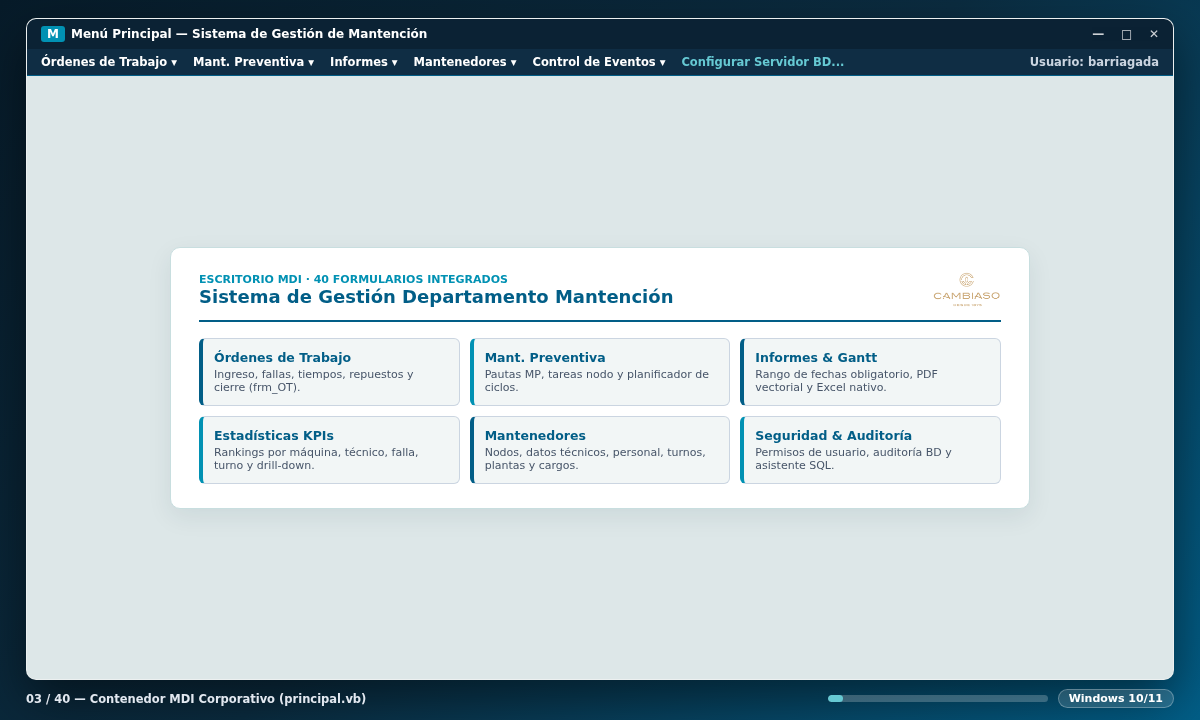
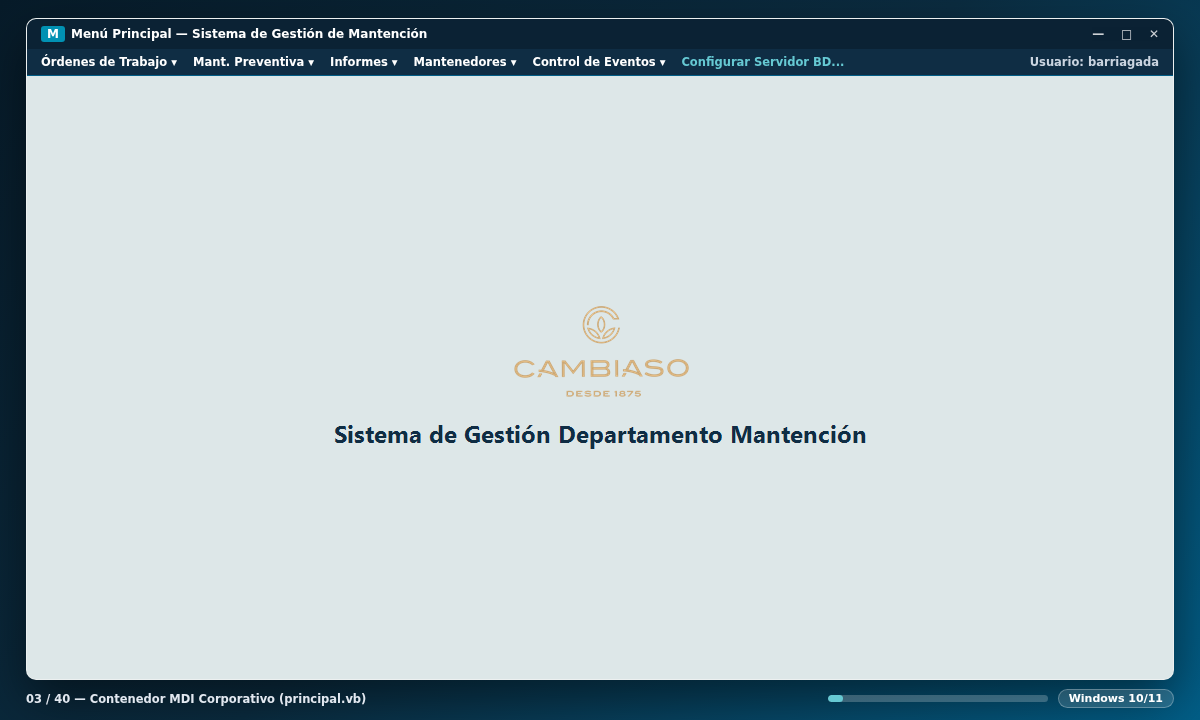
docs(gallery): actualizar captura 03_principal, carrusel de 40 formularios y descripcion del proyecto [skip ci]

Changed region(s): [[0.1233, 0.3361, 0.8633, 0.7028]]

diff --git a/README.md b/README.md
@@ -26,9 +26,9 @@
 
 ## 📌 Descripción del Proyecto
 
-El **Sistema de Gestión Departamento Mantención** es una solución informática de clase industrial (CMMS / ERP de Mantenimiento) diseñada específicamente para la administración, programación, control operativo y análisis estadístico del mantenimiento mecánico y eléctrico en las plantas productivas de **Cambiaso Hnos. S.A.C.**
+El **Sistema de Gestión Departamento Mantención** es una plataforma CMMS / EAM de grado industrial desarrollada sobre **.NET 8 LTS**, diseñada específicamente para la administración, programación cíclica, control operativo, auditoría y análisis estadístico del mantenimiento mecánico y eléctrico en las plantas productivas de **Cambiaso Hnos. S.A.C.**
 
-Permite digitalizar el ciclo de vida completo de las intervenciones técnicas en planta: desde la detección de una falla imprevista o la planificación cíclica de mantenciones preventivas, hasta el registro de repuestos, tiempos de detención, personal técnico asignado y reportabilidad ejecutiva con **filtrado universal por rango de fechas** para la toma de decisiones.
+Digitaliza de extremo a extremo el ciclo de vida de cada intervención técnica a través de **40 formularios unificados** bajo una identidad visual corporativa homogénea (`#025E87`, `#0191B3`, `#66C9D3`, `#0F2D44`, `#DDE7E8`, `#F2F6F6`): desde la detección de fallas imprevistas o la planificación preventiva en Carta Gantt, hasta el control de repuestos, horas de detención, dotación técnica, **filtrado obligatorio por rango de fechas (`Desde` / `Hasta`)** y exportación nativa a Excel (XML SpreadsheetML) y PDF vectorial (`iTextSharp`) sin dependencias de Office ni Crystal Reports en Windows 10/11 y macOS Universal (Apple Silicon ARM64 sin Rosetta 2 + Intel).
 
 ---
 
@@ -46,7 +46,7 @@ Permite digitalizar el ciclo de vida completo de las intervenciones técnicas en
 | Formulario (Impar) | Formulario (Par) |
 | :---: | :---: |
 | **01. `Inicio`** — Splash Corporativo<br/>[<img src="docs/screenshots/01_Inicio.png" width="400" alt="01 Inicio"/>](docs/screenshots/01_Inicio.png) | **02. `Login`** — Inicio de Sesión Limpio<br/>[<img src="docs/screenshots/02_Login.png" width="400" alt="02 Login"/>](docs/screenshots/02_Login.png) |
-| **03. `principal`** — Menú Principal MDI<br/>[<img src="docs/screenshots/03_principal.png" width="400" alt="03 principal"/>](docs/screenshots/03_principal.png) | **04. `FrmConfiguracionServidor`** — Asistente SQL<br/>[<img src="docs/screenshots/04_FrmConfiguracionServidor.png" width="400" alt="04 FrmConfiguracionServidor"/>](docs/screenshots/04_FrmConfiguracionServidor.png) |
+| **03. `principal`** — Escritorio MDI (Logo y Título)<br/>[<img src="docs/screenshots/03_principal.png" width="400" alt="03 principal"/>](docs/screenshots/03_principal.png) | **04. `FrmConfiguracionServidor`** — Asistente SQL<br/>[<img src="docs/screenshots/04_FrmConfiguracionServidor.png" width="400" alt="04 FrmConfiguracionServidor"/>](docs/screenshots/04_FrmConfiguracionServidor.png) |
 | **05. `frm_OT`** — Gestión Órdenes de Trabajo<br/>[<img src="docs/screenshots/05_frm_OT.png" width="400" alt="05 frm_OT"/>](docs/screenshots/05_frm_OT.png) | **06. `FrmDetalleOt`** — Detalle Completo de OT<br/>[<img src="docs/screenshots/06_FrmDetalleOt.png" width="400" alt="06 FrmDetalleOt"/>](docs/screenshots/06_FrmDetalleOt.png) |
 | **07. `FrmMp`** — Gestión Mantención Preventiva<br/>[<img src="docs/screenshots/07_FrmMp.png" width="400" alt="07 FrmMp"/>](docs/screenshots/07_FrmMp.png) | **08. `FrmAdminTareasNodo`** — Tareas por Máquina<br/>[<img src="docs/screenshots/08_FrmAdminTareasNodo.png" width="400" alt="08 FrmAdminTareasNodo"/>](docs/screenshots/08_FrmAdminTareasNodo.png) |
 | **09. `FrmPlanificarCiclos`** — Planificador Masivo<br/>[<img src="docs/screenshots/09_FrmPlanificarCiclos.png" width="400" alt="09 FrmPlanificarCiclos"/>](docs/screenshots/09_FrmPlanificarCiclos.png) | **10. `FrmInfOT`** — Informe Órdenes de Trabajo<br/>[<img src="docs/screenshots/10_FrmInfOT.png" width="400" alt="10 FrmInfOT"/>](docs/screenshots/10_FrmInfOT.png) |
@@ -211,14 +211,14 @@ dotnet add package Sistema.Gestion.Mantencion --version 2026.1.0
 
 ## 🌟 Novedades de la Versión 2026.1 LTS
 
-* **🎨 Identidad Visual Corporativa Unificada (`Segoe UI`):** Paleta corporativa oficial (`#025E87`, `#0191B3`, `#66C9D3`, `#E5EBEB`, `#F2F6F6`, `#0F2D44`), renderizador moderno de menús/barras, ajuste automático a pantalla, selectores de fecha ampliados (`106x23`) y botones corregidos en `Inicio de Sesión`.
-* **🛡 Captura Global y Diagnóstico Claro de Errores:** Todos los errores de red SQL Server, consultas y UI se traducen a explicaciones claras en español, ofrecen abrir **Configurar Servidor BD** en un clic y se guardan en `%LOCALAPPDATA%\SistemaMantencion\logs\errores_yyyyMMdd.log` para depuración.
+* **🎨 Identidad Visual Corporativa Unificada (`Segoe UI`):** Paleta corporativa oficial (`#025E87`, `#0191B3`, `#66C9D3`, `#0F2D44`, `#DDE7E8`, `#F2F6F6`) aplicada globalmente en los 40 formularios, grillas, menús/barras, botones primarios/secundarios/destructivos y escritorio MDI renovado con logotipo institucional y título centrado.
+* **🧩 Iconografía de Botones Normalizada (`16x16`):** Depuración de fotogramas `.ico` sobredimensionados y ajuste automático por código (`NormalizarIconoBoton`) para evitar recortes o superposiciones de iconos sobre textos en formularios y buscadores.
+* **🛡 Configuración SQL Bajo Demanda y Diagnóstico Claro de Errores:** Pantalla de **Inicio de Sesión** limpia; ante fallos SQL, de red/VPN o permisos, explica la causa en español, ofrece abrir **Configurar Servidor BD** en un clic (también disponible desde **Mantenedores > Configurar Servidor BD...**) y registra la bitácora en `%LOCALAPPDATA%\SistemaMantencion\logs\errores_yyyyMMdd.log`.
 * **📅 Filtrado Obligatorio por Rango de Fechas en Todos los Informes:** Selección `Desde` / `Hasta` siempre visible, habilitada y validada en OT, Mantención Preventiva, Ciclos por Máquina, Carta Gantt, Resúmenes Estadísticos y Auditoría.
-* **📑 Exportación Excel y PDF Sin Dependencias:** Motor nativo SpreadsheetML (`.xls`) y motor vectorial iTextSharp (`.pdf`) integrados en todos los informes cuando Microsoft Excel no está presente.
+* **📑 Exportación Excel y PDF Sin Dependencias:** Motor nativo SpreadsheetML (`.xls`) y motor vectorial `iTextSharp` (`.pdf`) integrados en todos los informes cuando Microsoft Excel no está presente.
 * **⚡ Transiciones MDI y Consultas Optimizadas:** `DoubleBuffered`, `SuspendLayout`/`ResumeLayout`, caché de catálogos, precalentamiento de pool SQL y búsquedas `O(1)` en generación de Carta Gantt.
-* **📦 Instaladores Ultra-Compactos:** Depuración automática de ensamblados WPF no utilizados, símbolos de depuración, duplicados de plantillas y satélites de idiomas extranjeros; compresión LZMA2 (`Windows`) y ULMO LZMA (`macOS`).
-* **🍏 Soporte Nativo Universal para macOS (Sin Rosetta 2):** Binario Mach-O Universal (`arm64` + `x86_64`) con entorno UTF-8 forzado desde el launcher nativo, ejecución 100% nativa en Apple Silicon (M1–M4), eliminando avisos de apps Intel en macOS 27 Golden Gate y garantizando compatibilidad futura con macOS 28+.
-* **🛡 Cero Advertencias y Cero Errores:** Código fuente 100% verificado, sin archivos huérfanos y validado bajo estándares modernos de compilación.
+* **📦 Instaladores Ultra-Compactos y Pipeline CI/CD Node 24:** Depuración automática de ensamblados WPF no utilizados, símbolos `.pdb` y satélites de idiomas extranjeros; compresión `LZMA2` (`Windows`) y `ULMO LZMA` (`macOS`), con compilación y empaquetado verificados con `0` advertencias, `0` errores y `0` annotations.
+* **🍏 Soporte Nativo Universal para macOS (Sin Rosetta 2):** Binario Mach-O Universal (`arm64` + `x86_64`) generado en runner `macos-15-intel` con entorno UTF-8 desde el launcher nativo, ejecución 100% nativa ARM64 en Apple Silicon (M1–M4) y motor Intel `x86_64` integrado.
 
 ---
 
